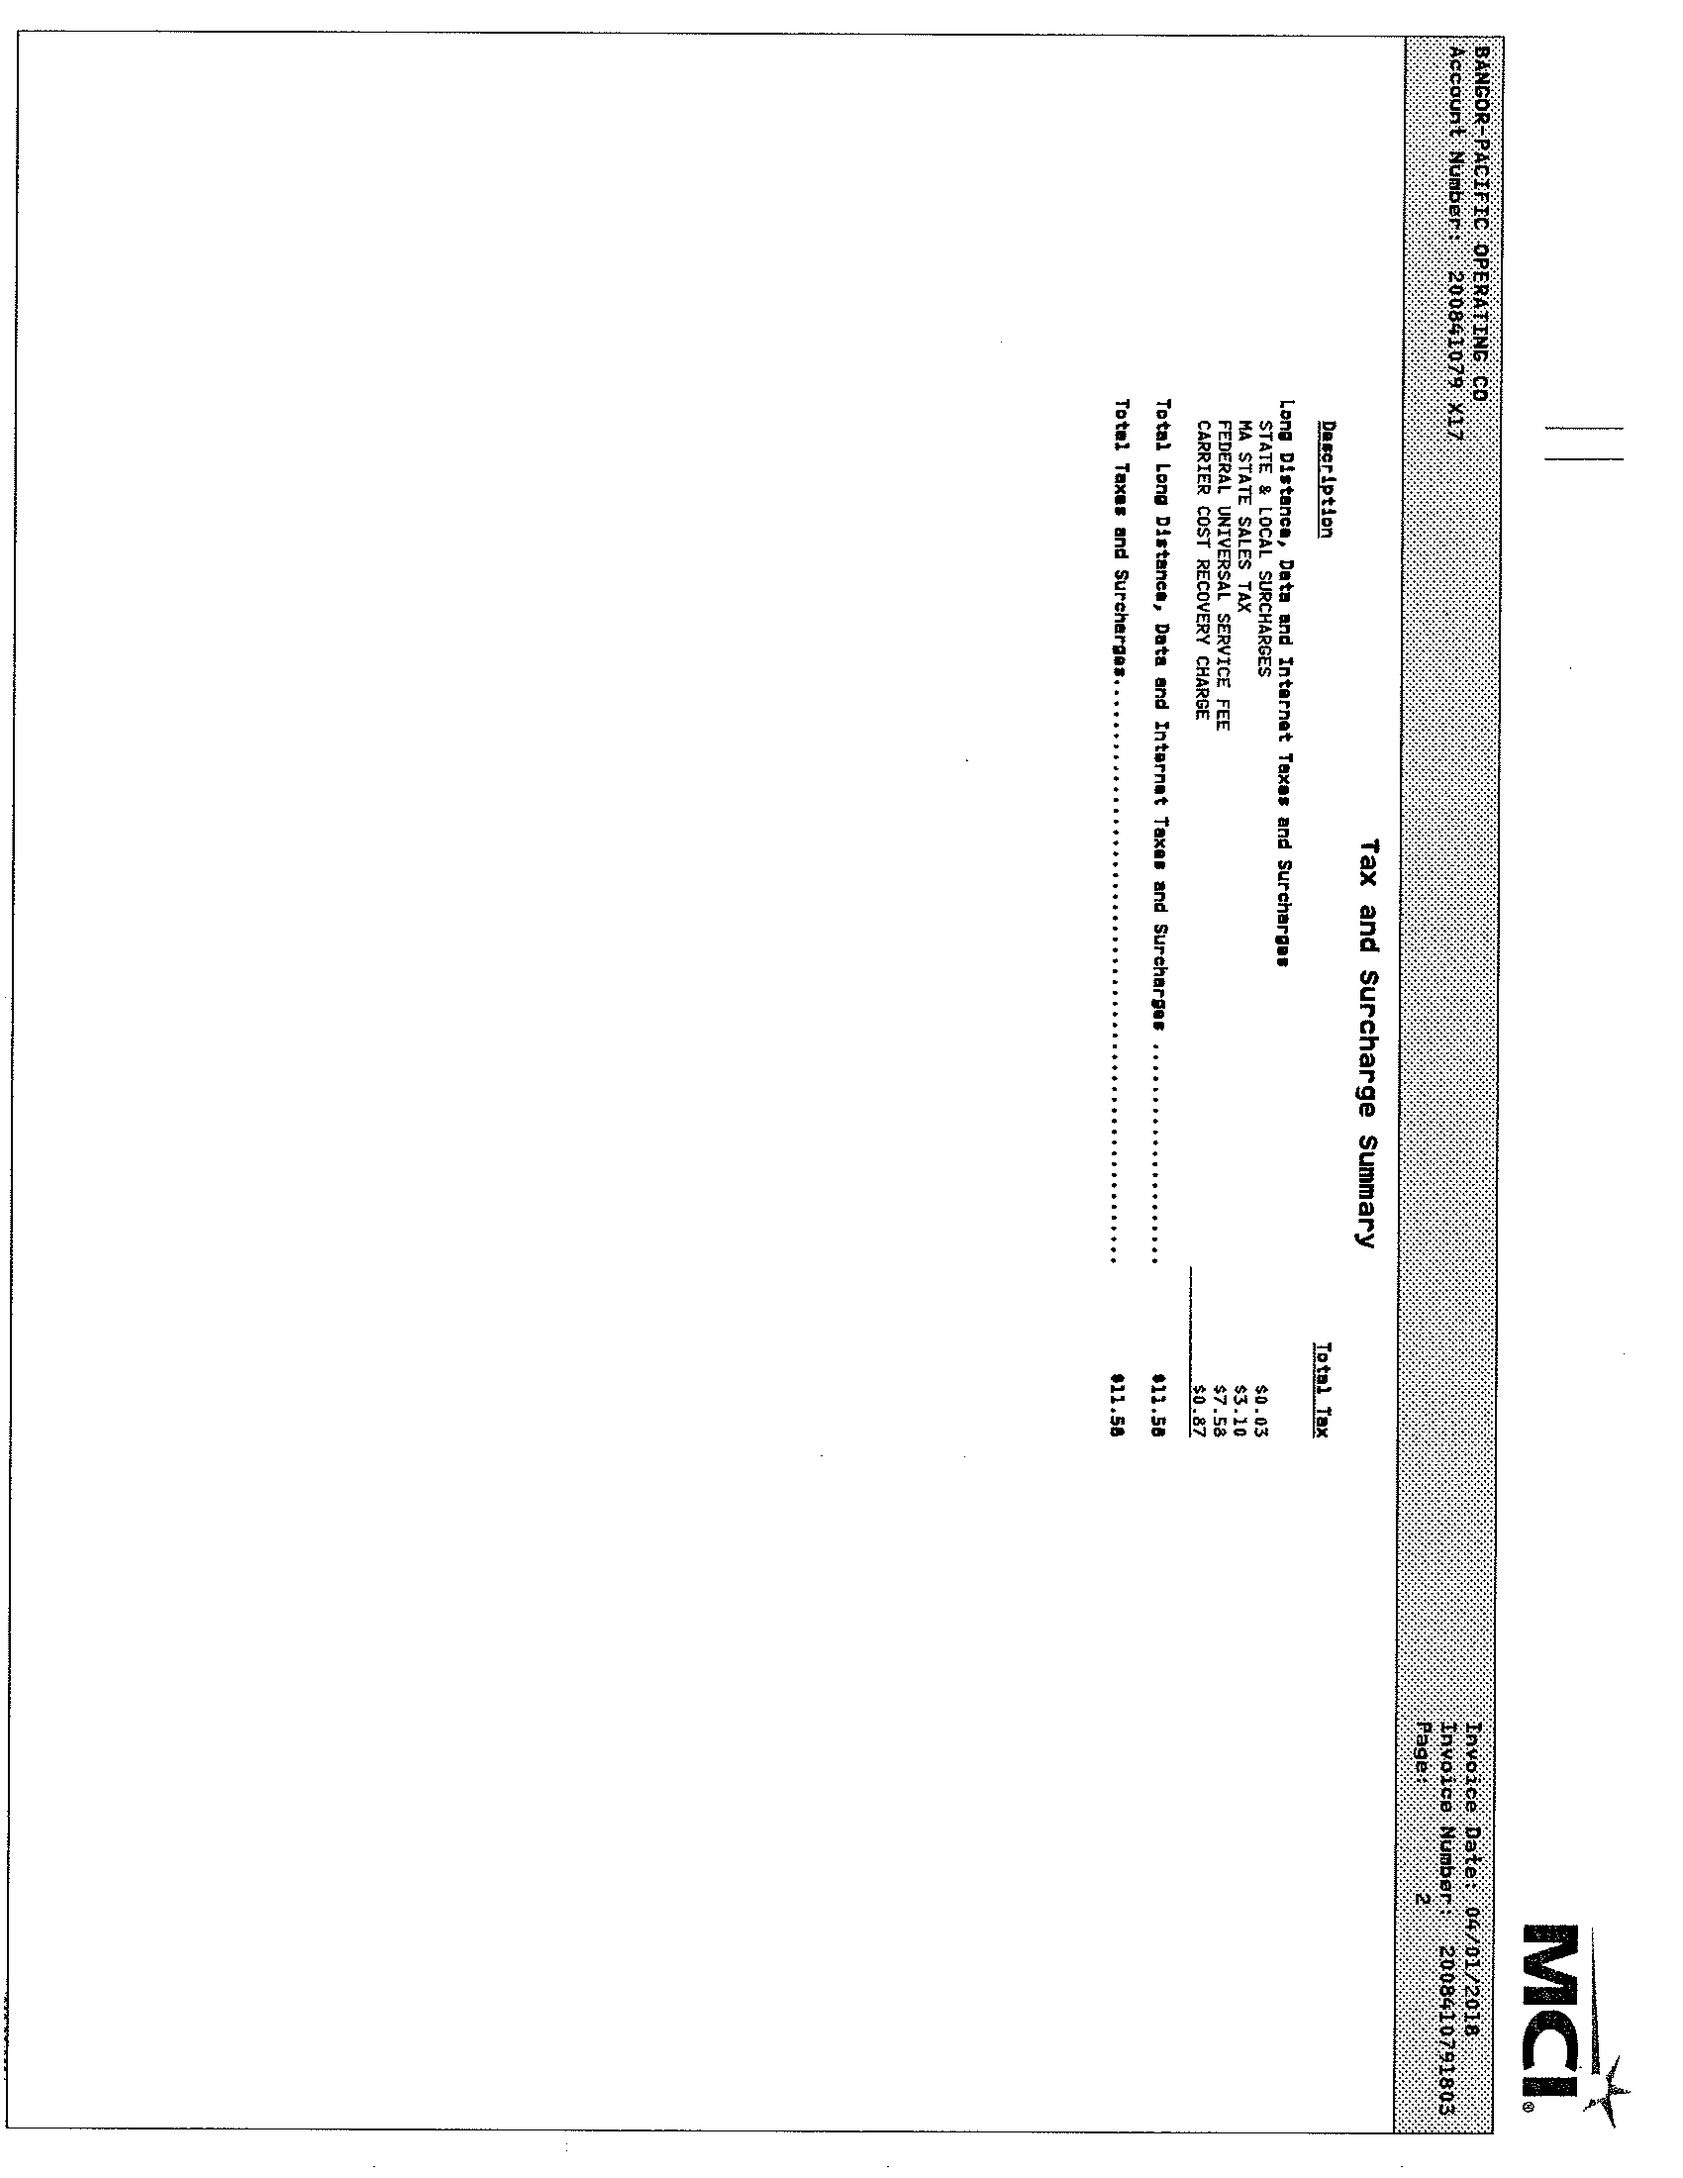
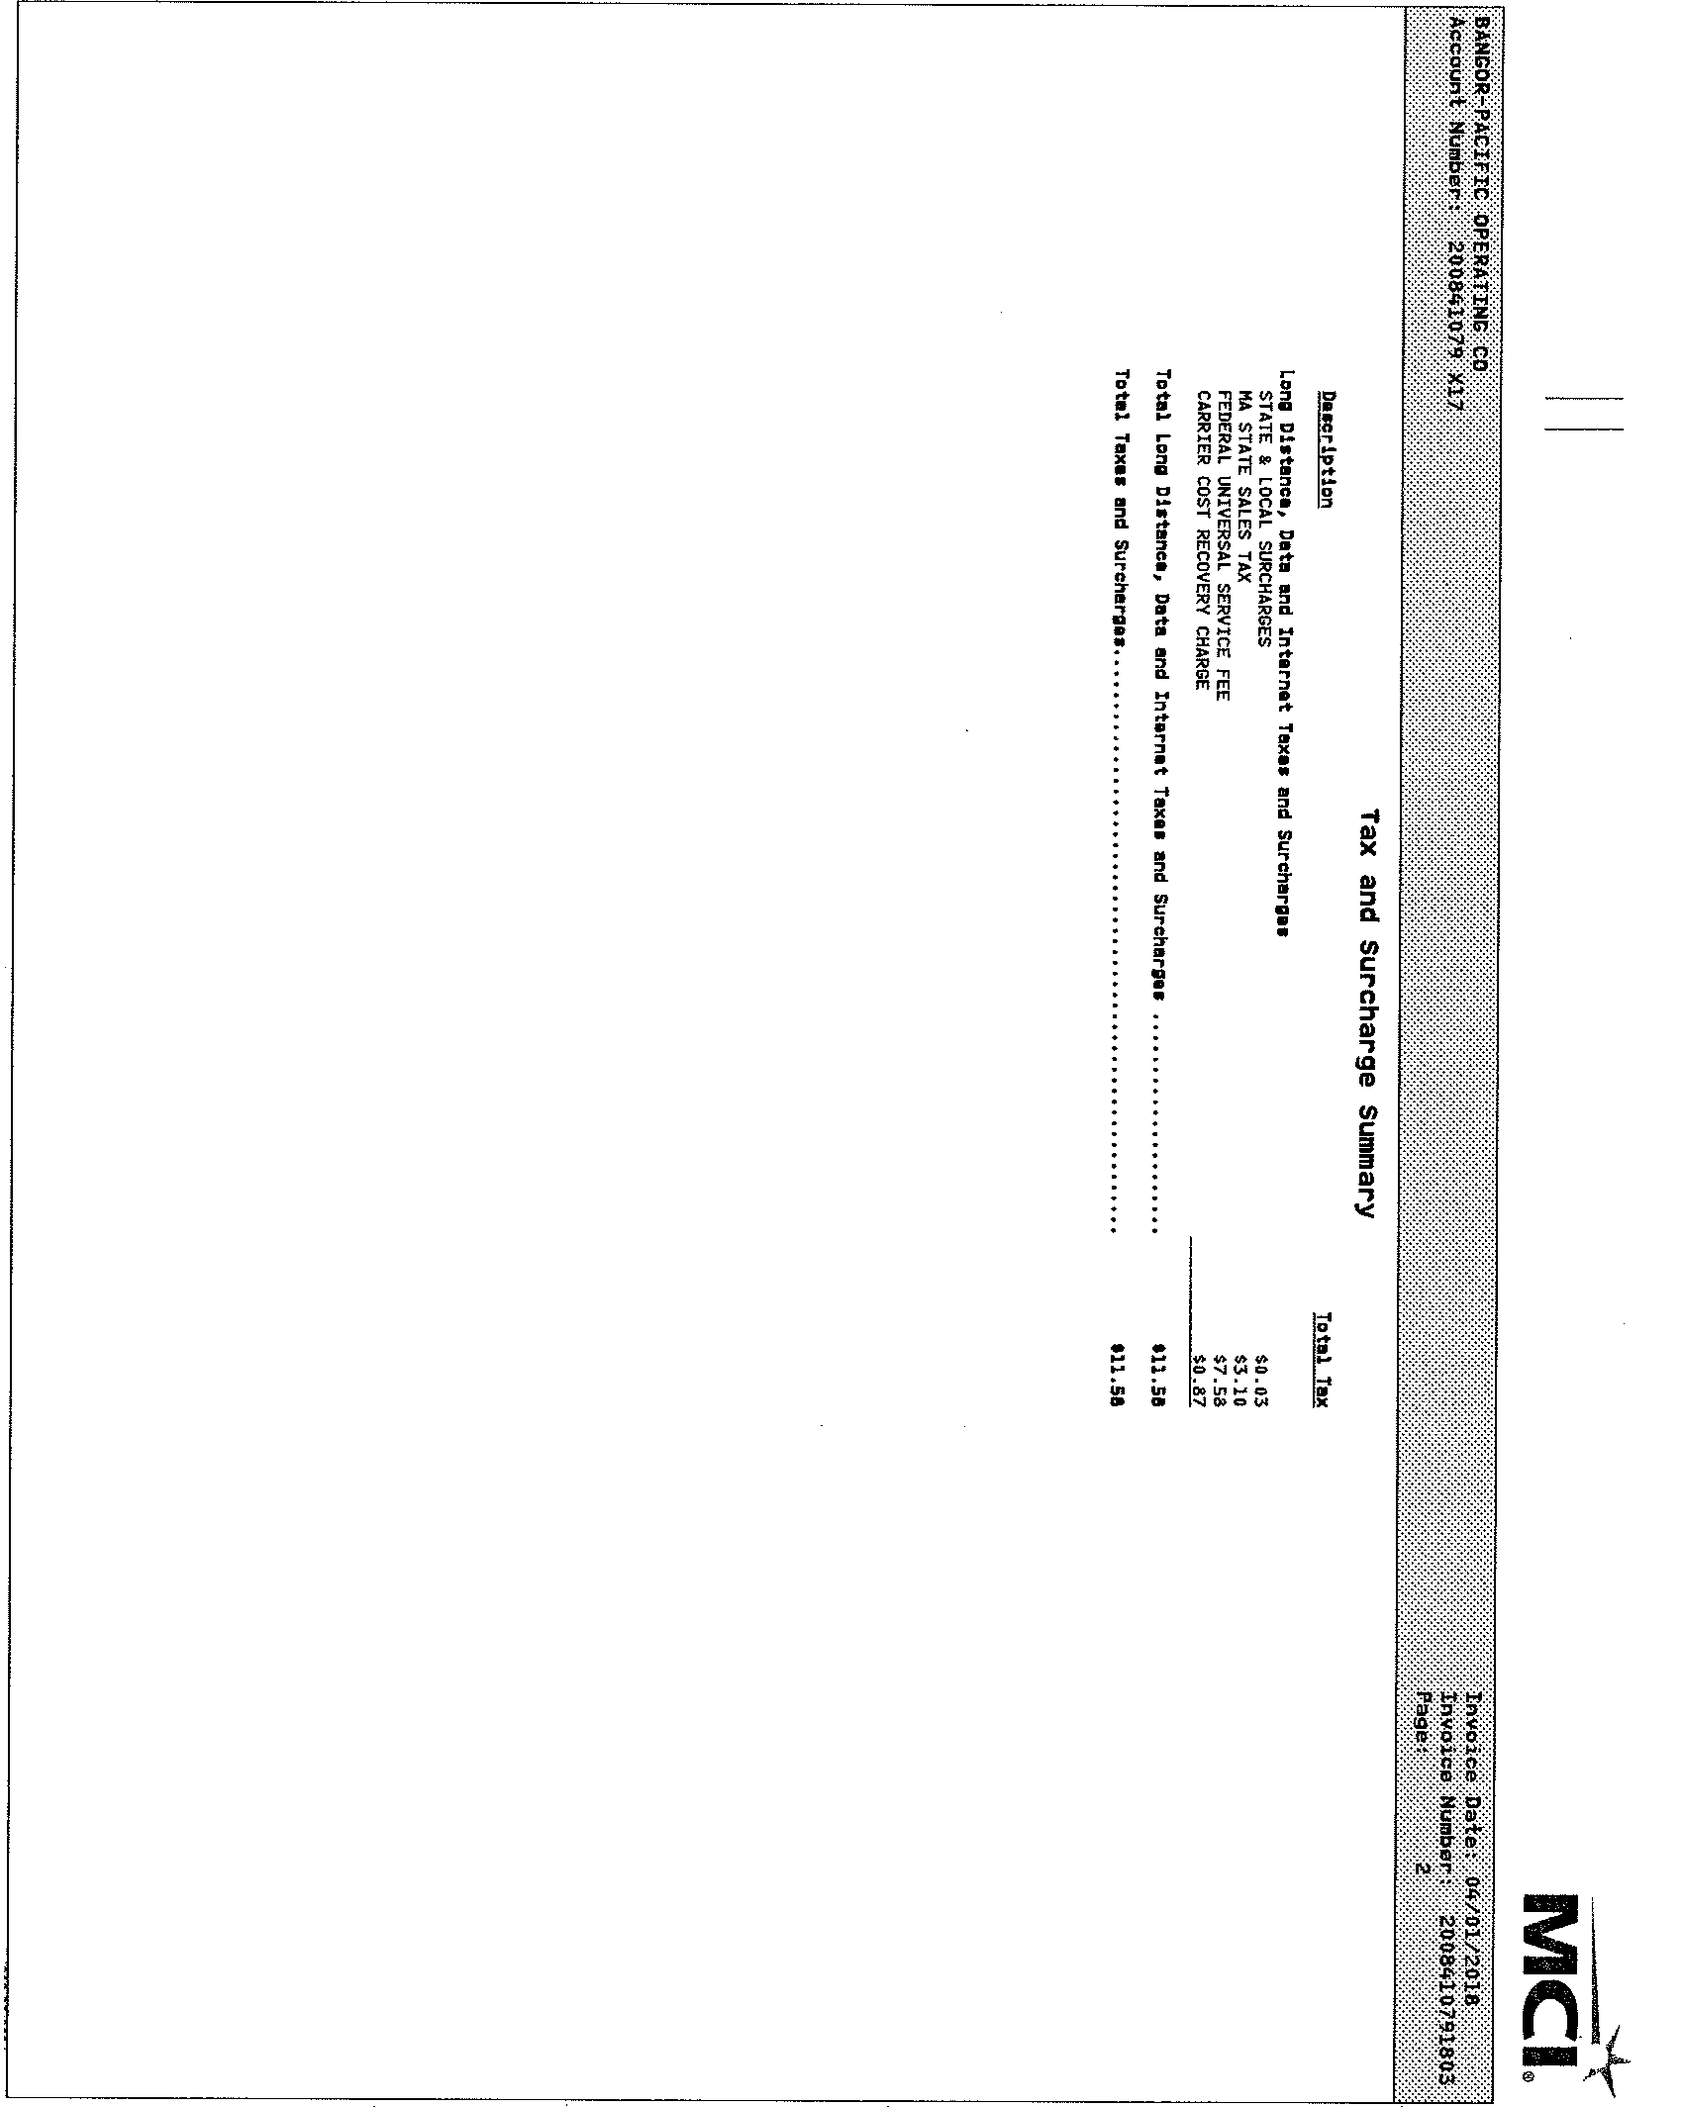
remove_whitespace method in now removes the whitespace of all the pictures in convertedimages

diff --git a/Whitespace_Remover.py b/Whitespace_Remover.py
@@ -2,39 +2,47 @@ from PIL import Image, ImageOps
 import os
 basepath = os.path.dirname(os.path.abspath('TestOCR.py'))
 
-
-
-def find_rows_with_color(pixels, width, height, white):
+def find_rows_with_color(pixels, width, height, colour):
     rows_found=[]
     #go through the entire picture row by row, if the row only has white pixels, append the row to rows_found array, then return the rows.
     for y in range(height):
         for x in range(width):
-            if pixels[x, y] != white:
+            if pixels[x, y] != colour:
                 break
         else:
             rows_found.append(y)
 
     return rows_found
 
-old_im = Image.open(basepath + "\\" + "ConvertedImages\\" + "Frontier-0.png")
-if old_im.mode != 'RGB':
-    old_im = old_im.convert('RGB')
 
-#create a new blank image with the height - the amount of rows that have to be removed
-pixels = old_im.load()
-width, height = old_im.size[0], old_im.size[1]
-rows_to_remove = find_rows_with_color(pixels, width, height, (255, 255, 255))
-new_im = Image.new('RGB', (width, height - len(rows_to_remove)))
-pixels_new = new_im.load()
-rows_removed = 0
 
-#go through the new blank image, and add the rows that are not only white (if y not in rows_to_remove)
-for y in range(old_im.size[1]):
-    if y not in rows_to_remove:
-        for x in range(new_im.size[0]):
-            pixels_new[x, y - rows_removed] = pixels[x, y]
-    else:
-        rows_removed += 1
+def remove_whitespace():
 
-new_im.save(basepath + "\\" + "ConvertedImages\\" + "Frontier-0.png")
+    png_names = os.listdir(basepath + '\convertedimages')
 
+    for x in png_names:
+        png_path = basepath + "\convertedimages" + "\\" + x
+
+        old_im = Image.open(png_path)
+        if old_im.mode != 'RGB':
+            old_im = old_im.convert('RGB')
+
+        #create a new blank image with the height - the amount of rows that have to be removed
+        pixels = old_im.load()
+        width, height = old_im.size[0], old_im.size[1]
+        rows_to_remove = find_rows_with_color(pixels, width, height, (255, 255, 255))
+        new_im = Image.new('RGB', (width, height - len(rows_to_remove)))
+        pixels_new = new_im.load()
+        rows_removed = 0
+
+        #go through the new blank image, and add the rows that are not only white (if y not in rows_to_remove)
+        for y in range(old_im.size[1]):
+            if y not in rows_to_remove:
+                for x in range(new_im.size[0]):
+                    pixels_new[x, y - rows_removed] = pixels[x, y]
+            else:
+                rows_removed += 1
+
+        new_im.save(png_path)
+
+remove_whitespace()

diff --git a/PDF2EXCEL.py b/PDF2EXCEL.py
@@ -1,5 +1,6 @@
 from __future__ import print_function
 from wand.image import Image
+from Whitespace_Remover import remove_whitespace
 import os
 import boto3
 import time
@@ -95,6 +96,7 @@ def delete_all_s3_keys(bucket):
 
 
 folder_to_png("E:\Documents\Git\PDF2EXCEL\PDFs")
+
 #upload_pngs()
 #delete_all_s3_keys(bucket_name)
 
